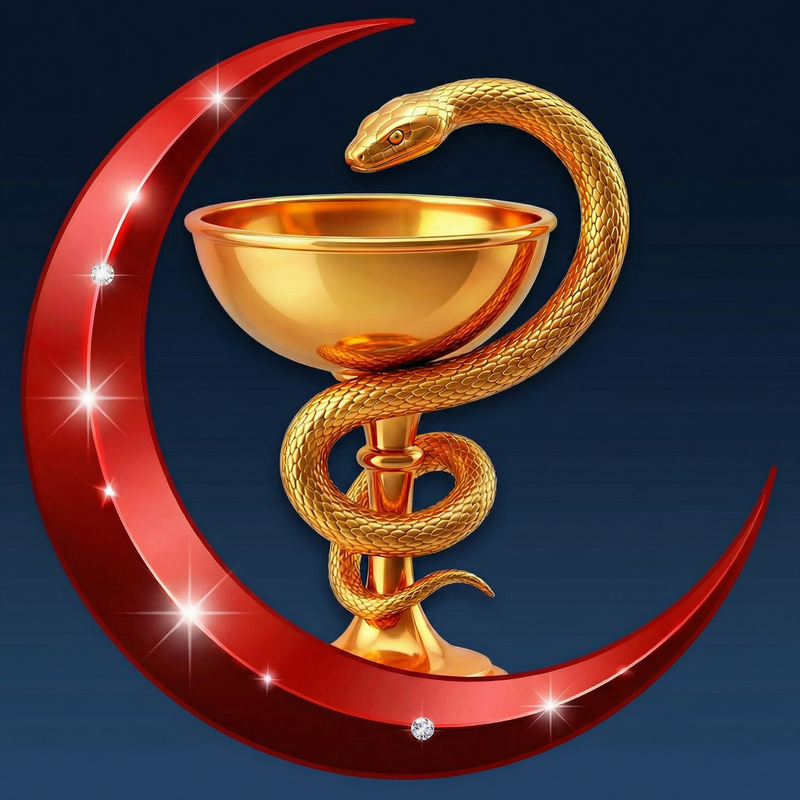
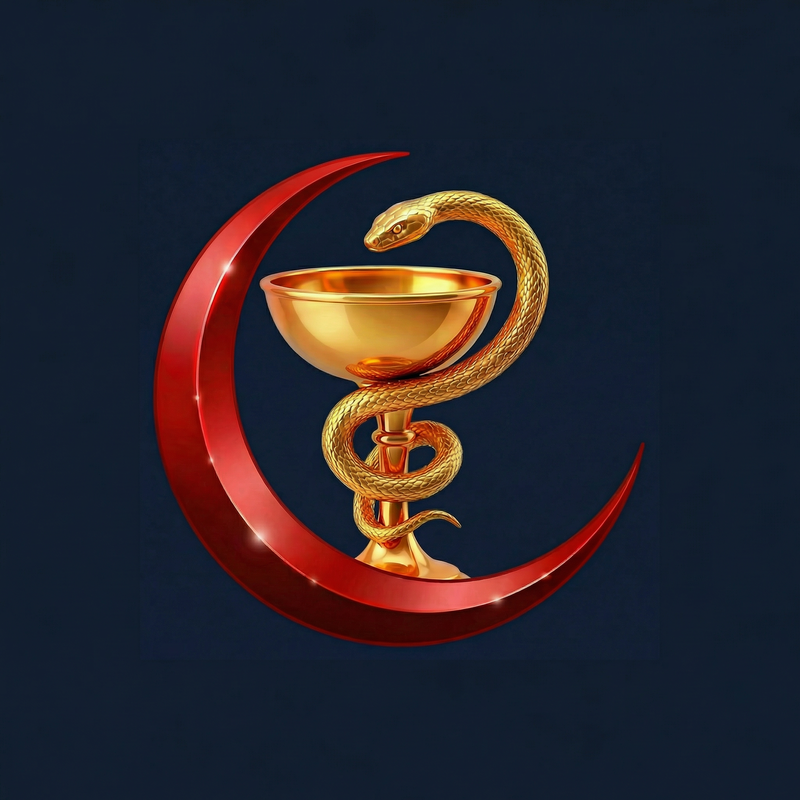
Checkpoint: تحديثات: 1) تطبيق أيقونة جديدة مع هوامش آمنة وتقليل البريق على الهلال الأحمر 2) تكبير زر "إضافة للسلة" في صفحة تفاصيل الدواء مع نص أبيض واضح بحجم 18 وأيقونة سلة أكبر

diff --git a/app/medicine/[id].tsx b/app/medicine/[id].tsx
@@ -229,7 +229,7 @@ export default function MedicineDetailScreen() {
               pressed && !isInCart(medicine.id) && { opacity: 0.9, transform: [{ scale: 0.97 }] },
             ]}
           >
-            <MaterialIcons name="shopping-cart" size={20} color="#fff" />
+            <MaterialIcons name="shopping-cart" size={24} color="#fff" />
             <Text style={styles.addToCartText}>
               {isInCart(medicine.id) ? "في السلة" : "إضافة للسلة"}
             </Text>
@@ -305,10 +305,11 @@ const styles = StyleSheet.create({
   qtyText: { fontSize: 18, fontWeight: "bold", color: "#1F2937", minWidth: 32, textAlign: "center" },
   unitLabel: { fontSize: 15, fontWeight: "600", color: "#2563EB" },
   addToCartBtn: {
-    flex: 1, flexDirection: "row", alignItems: "center", justifyContent: "center",
-    backgroundColor: "#2563EB", borderRadius: 12, paddingVertical: 14, gap: 8,
+    flexDirection: "row", alignItems: "center", justifyContent: "center",
+    backgroundColor: "#2563EB", borderRadius: 14, paddingVertical: 18, paddingHorizontal: 20, gap: 10,
+    width: "100%",
   },
   addToCartBtnDisabled: { backgroundColor: "#9CA3AF" },
-  addToCartText: { color: "#fff", fontSize: 15, fontWeight: "bold" },
-  addToCartPrice: { color: "rgba(255,255,255,0.8)", fontSize: 13 },
+  addToCartText: { color: "#fff", fontSize: 18, fontWeight: "bold", letterSpacing: 0.3 },
+  addToCartPrice: { color: "rgba(255,255,255,0.9)", fontSize: 15, fontWeight: "600" },
 });

diff --git a/app.config.ts b/app.config.ts
@@ -32,7 +32,7 @@ const env = {
   appSlug: "alshazly-pharmacy-app",
   // S3 URL of the app logo - set this to the URL returned by generate_image when creating custom logo
   // Leave empty to use the default icon from assets/images/icon.png
-  logoUrl: "https://private-us-east-1.manuscdn.com/user_upload_by_module/session_file/310519663305726337/euYeSXbUoJOiXbDt.png?Expires=1803076386&Signature=Gc388mW9HXE4ktOOChImd6WC--E5~NW~qaRWADKHSnWYkfQwvdWLcoge8Doh~0ytiZmnMAWWpZzI4Bj-6jrpNP43wwPv~LpawBGBXGS4XjuK9rCBsslUAfF5jCVsKCz1a4yqsjSleBI-utlitKzvkG67Uf0~9PzmC4R2K7NQQoa-9TWddg2McycNhlN-jTrWQ4rcNdcu~~-ICN0HWYFyVMPyUaV3MHO~UlMwPeJuQiylsQd4LbN2qLmwUKUcoqKIcMJTGBaxE8JizEvFctZ5PCpq-w4XUUF-qyy2TPy6UkkbnCjcQZLlZIVA8HDr7BZiTtlLUd0qgIpQrO7XGXkuUg__&Key-Pair-Id=K2HSFNDJXOU9YS",
+  logoUrl: "https://private-us-east-1.manuscdn.com/user_upload_by_module/session_file/310519663305726337/KZsdaUTuJlgnLrwn.png?Expires=1803077168&Signature=USXlix55haoDHk9J-3SP-G46x118eUfbnkHRjGOskxeZvV2jTAZaY3OBnDarZpQGNrPTlCSzLOzik4uGKPzQx1ECACBc8OpJFsRzcYv2OfJjU0HksN~F7lSVSVY~pHQNTSjlUzP4UPCQs~1AGXbJku90SAQh69xWvSf8kzir3fHnTLR08tk5GdpCKNl1hfE~tB7I2w9zeiQn68QTI6XSpSM~k-2z7E2SCts0G0zddKmfThBZrD5XpJL4tmzeH49RUVnbhG2lp56VC15~-Jlx4M~vqe3ygASIAkLcp~-SasrRU9l5gCiZnFmueaWHFW2-uVh8HUsHuNKSEpztt4om0w__&Key-Pair-Id=K2HSFNDJXOU9YS",
   scheme: schemeFromBundleId,
   iosBundleId: bundleId,
   androidPackage: bundleId,

diff --git a/todo.md b/todo.md
@@ -44,3 +44,6 @@
 - [x] زيادة ارتفاع شاشة الإعلانات 12% إضافية من الأسفل (179 → 200)
 - [x] رفع منطقة تحديد الكمية وزر التأكيد في صفحة تفاصيل الدواء لتجنب تغطية شريط التنقل
 - [x] تصميم أيقونة جديدة للتطبيق بألوان أكثر جاذبية وكأس وثعبان أكبر (أزرق كحلي + هلال أحمر + كأس ذهبي)
+- [x] إعادة تصميم أيقونة التطبيق مع هوامش آمنة (safe zone) لتظهر كاملة بعد التثبيت
+- [x] تكبير زر الإضافة للسلة في صفحة تفاصيل الدواء وكتابة "إضافة للسلة" بخط أبيض واضح
+- [x] تطبيق الأيقونة المعدّلة (تقليل البريق على الهلال)
